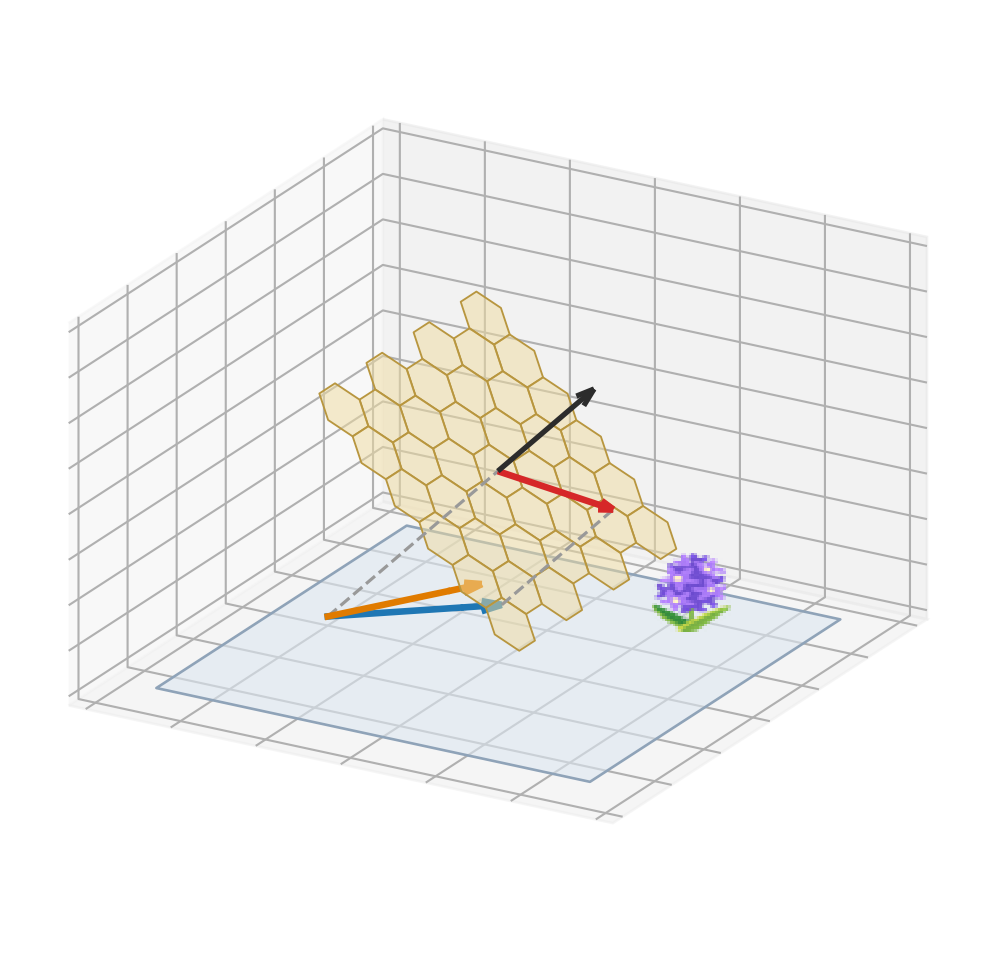
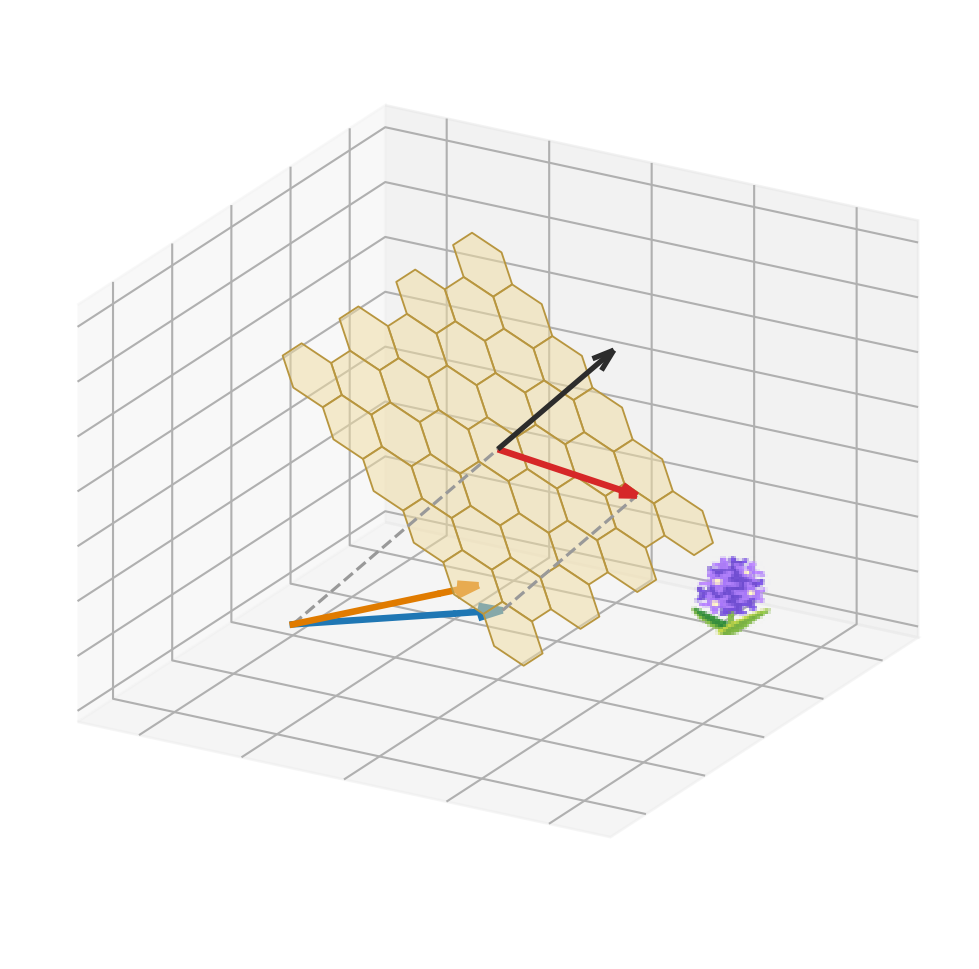
Declutter direct-decode sketch: drop ground square, trim grid
Remove the filled world-plane square (the pane grid already reads as the
ground) along with its now-unused square_corners helper and GROUND_*
constants. Tighten the axis limits to trim ~1-2 empty rows of grid tiles
around the content.

Changed region(s): [[0.0613, 0.1238, 0.9499, 0.8359]]

diff --git a/experiments/illustrate_direct_decode_sketch.py b/experiments/illustrate_direct_decode_sketch.py
@@ -52,7 +52,6 @@ SQUARE_SIZE = 1.275  # ground square half-size; ~15% smaller than the original 1
 # note in illustrate_direct_decode_sketch's commit history.
 COMB_HALF_SIZE = 0.65
 
-GROUND_OFFSET = np.array([0.0, 0.0, 0.0])
 COMB_OFFSET = np.array([0.0, 0.0, 1.0])
 ELEV, AZIM = 22.0, -60.0
 HEX_RADIUS = 0.16
@@ -74,8 +73,6 @@ FLOWER_VISIBLE_ZORDER = 6  # above everything
 FONT_PATH = "/usr/share/fonts/truetype/noto/NotoColorEmoji.ttf"
 EMOJI_STRIKE_SIZE = 109  # NotoColorEmoji ships a single bitmap strike at this size
 
-GROUND_COLOR = "#dce6f0"
-GROUND_EDGE = "#8fa3b8"
 COMB_COLOR = "#f0dca0"
 COMB_EDGE = "#b8963f"
 FOOD_COLOR = "#1f77b4"
@@ -89,17 +86,6 @@ def parse_args() -> argparse.Namespace:
     parser = argparse.ArgumentParser(description=__doc__)
     parser.add_argument("--output", type=Path, default=DEFAULT_OUTPUT)
     return parser.parse_args()
-
-
-def square_corners(u_axis, v_axis, size):
-    return np.array(
-        [
-            u_axis * size + v_axis * size,
-            -u_axis * size + v_axis * size,
-            -u_axis * size - v_axis * size,
-            u_axis * size - v_axis * size,
-        ]
-    )
 
 
 def hex_centers_square(half_size, hex_radius):
@@ -272,19 +258,8 @@ def main() -> None:
     first = np.asarray(basis.first_axis)
     second = np.asarray(basis.second_axis)
 
-    ground_corners = square_corners(
-        np.array([1.0, 0.0, 0.0]), np.array([0.0, 1.0, 0.0]), SQUARE_SIZE
-    ) + GROUND_OFFSET
-
     fig = plt.figure(figsize=(6.5, 6.5))
     ax = fig.add_subplot(1, 1, 1, projection="3d", computed_zorder=False)
-
-    ground_poly = Poly3DCollection(
-        [ground_corners], facecolor=GROUND_COLOR, edgecolor=GROUND_EDGE,
-        linewidth=1.0, alpha=0.6,
-    )
-    ground_poly.set_zorder(0)
-    ax.add_collection3d(ground_poly)
 
     # Comb: a hexagonal-cell tile filling a COMB_HALF_SIZE square footprint
     # (centered on its own offset, no hinging) -- smaller than the ground
@@ -345,9 +320,9 @@ def main() -> None:
         arrow_length_ratio=0.15, zorder=5,
     )
 
-    xlim = (-1.6, 1.6)
-    ylim = (-1.6, 1.6)
-    zlim = (-0.05, 2.05)
+    xlim = (-1.3, 1.3)
+    ylim = (-1.3, 1.3)
+    zlim = (-0.05, 1.85)
     ax.set_xlim(*xlim)
     ax.set_ylim(*ylim)
     ax.set_zlim(*zlim)
